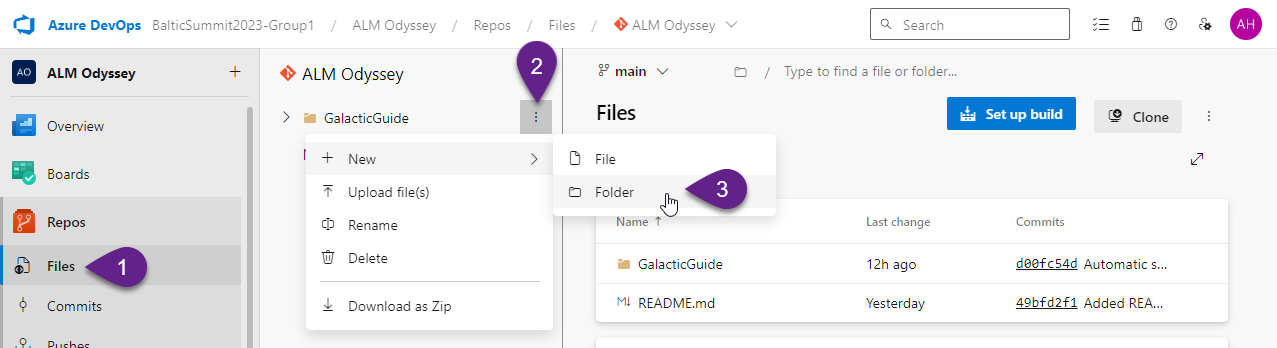
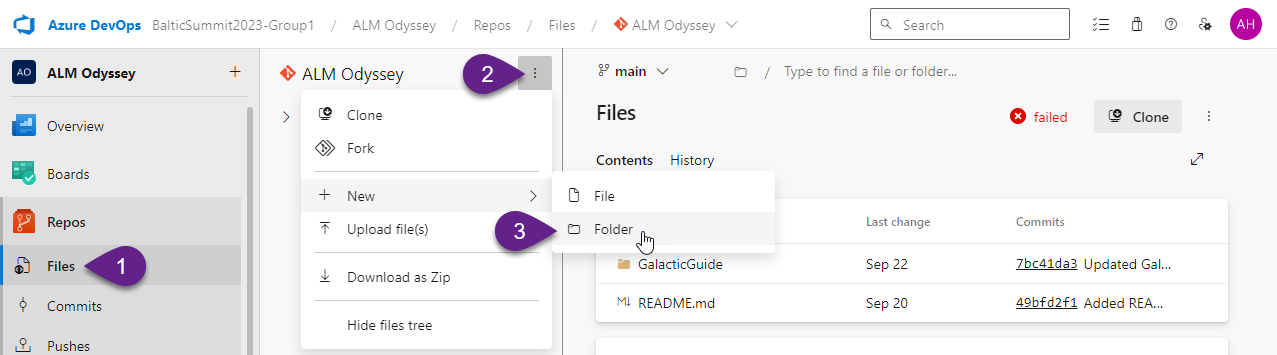
update lab 7

diff --git a/labs/Lab 7 - Crafting a Settings File for Auto-filled Values.md b/labs/Lab 7 - Crafting a Settings File for Auto-filled Values.md
@@ -105,7 +105,7 @@ The settings file should include all environments variables and connection refer
 
 1. Go to `Repos` in Azure DevOps.
 
-2. Click on three dots next to the folder name `GalacticGuide`.
+2. Click on three dots next to the Repo name `ALM Odyssey`.
 
 3. Select `+ New`, and then select `Folder`.
 
